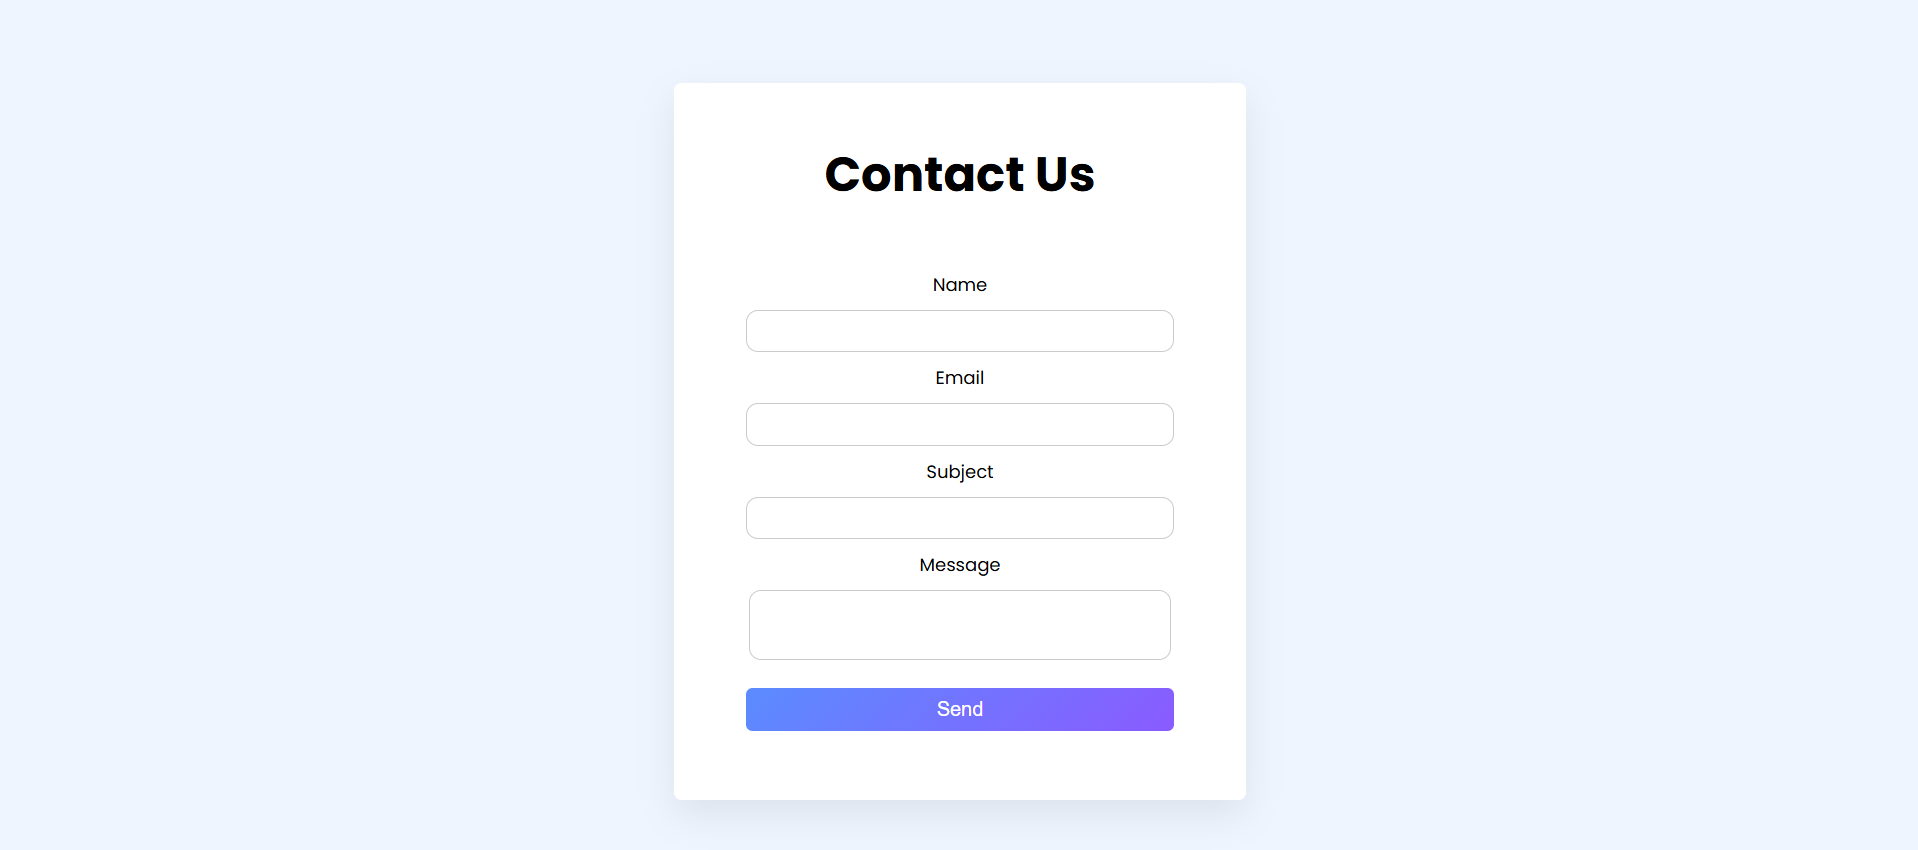
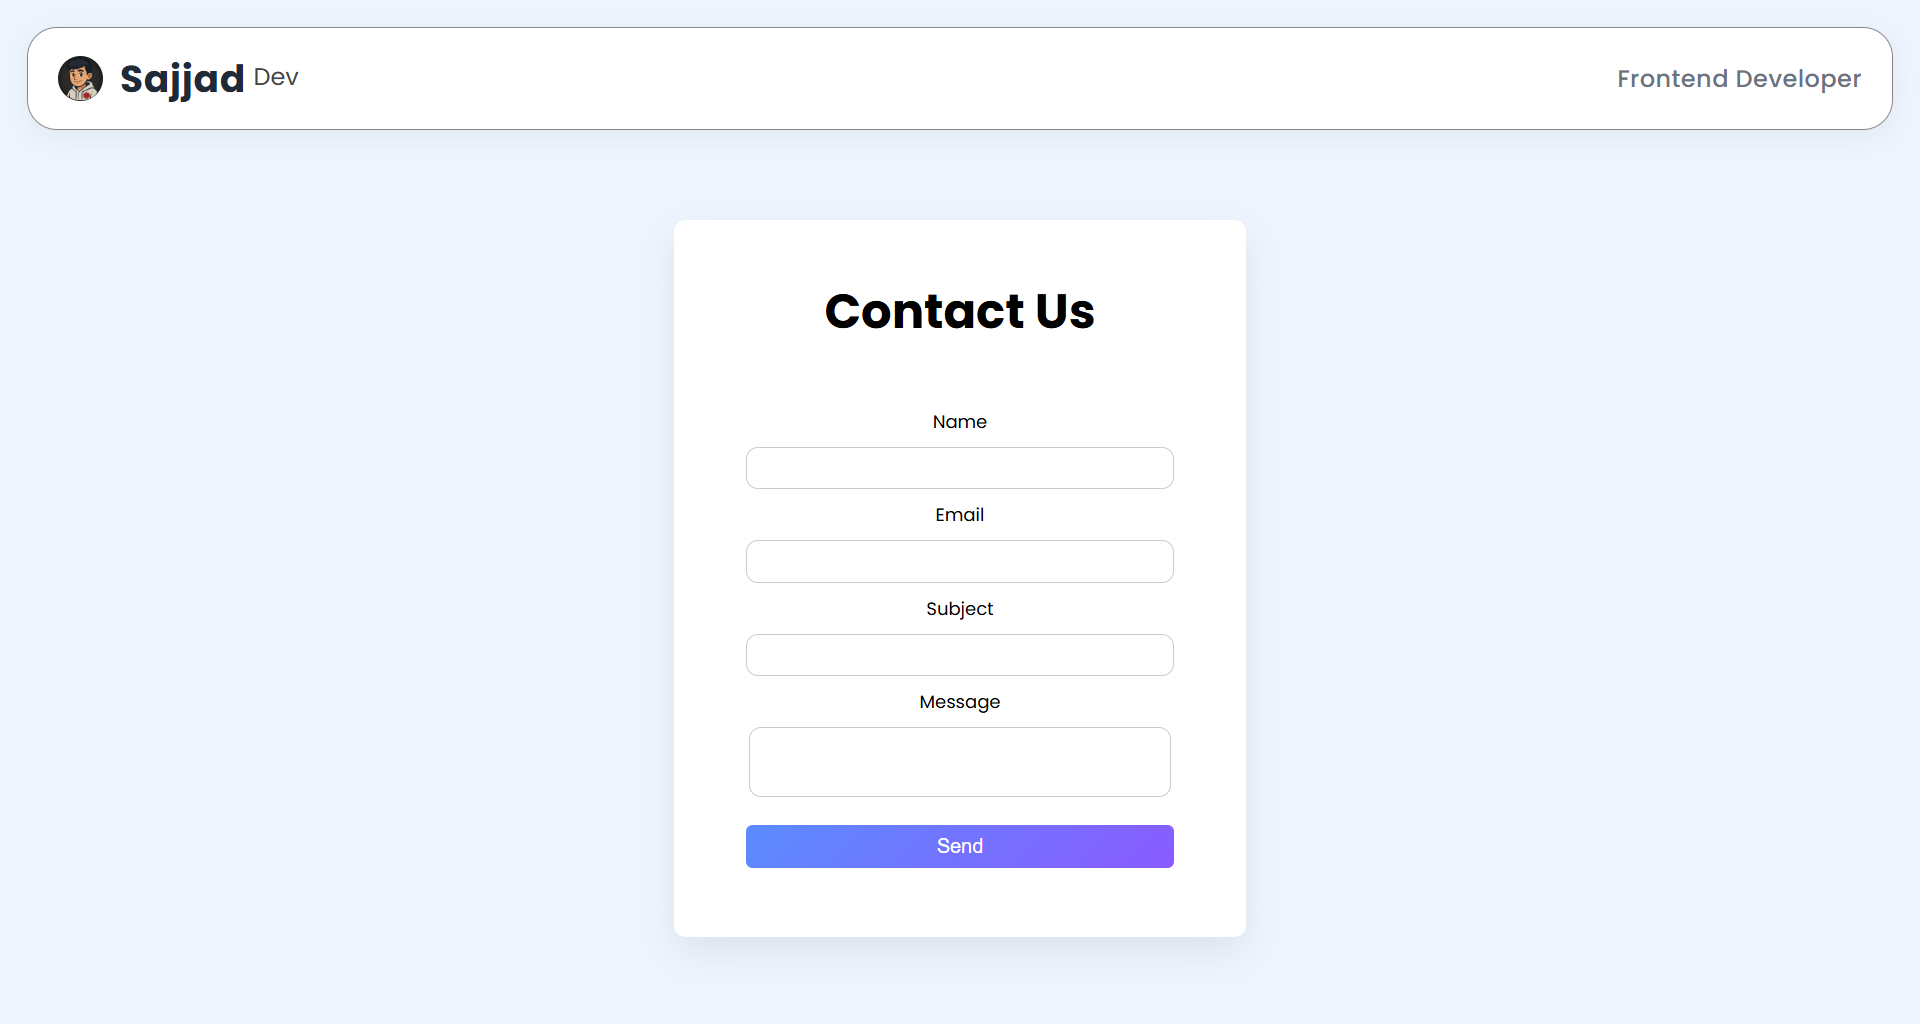
update

diff --git a/style.css b/style.css
@@ -113,6 +113,58 @@ body {
   font-style: italic;
 }
 
+/* nav */
+
+.sajjad-nav {
+  display: flex;
+  margin: 10px;
+  margin-bottom: 30px;
+  border-radius: 20px;
+  border: 1px solid #888;
+  justify-content: space-between;
+  align-items: center;
+  padding: 15px 20px;
+  background: #ffffff;
+  box-shadow: 0 4px 18px rgba(0, 0, 0, 0.06);
+}
+
+.brand img {
+  width: 30px;
+  height: 30px;
+  margin-right: 7px;
+  border-radius: 50%;
+  vertical-align: middle;
+}
+
+.logo {
+  font-size: 25px;
+  font-weight: 700;
+  color: #1f2937;
+  letter-spacing: 0.5px;
+  vertical-align: middle;
+}
+
+.accent {
+  color: #444;
+  margin-left: 5px;
+}
+
+.tagline {
+  font-weight: 500;
+  color: #6b7280;
+  letter-spacing: 0.3px;
+}
+
+@media (max-width: 768px) {
+  .sajjad-nav {
+    flex-direction: column;
+    gap: 0.5rem;
+  }
+  .tagline {
+    font-size: 0.9rem;
+  }
+}
+
 /* form */
 
 form {
@@ -123,6 +175,7 @@ form {
   align-items: center;
   margin: auto;
   margin-top: 60px;
+  margin-bottom: 50px;
   width: 350px;
   height: auto;
   padding: 15px;

diff --git a/index.html b/index.html
@@ -13,6 +13,13 @@
     />
   </head>
   <body>
+    <nav class="sajjad-nav">
+      <div class="brand">
+        <img src="assests/favicon.png" alt="" />
+        <span class="logo">Sajjad</span><span class="accent">Dev</span>
+      </div>
+      <div class="tagline">Frontend Developer</div>
+    </nav>
     <div class="container">
       <form action="">
         <h1>Contact Us</h1>
